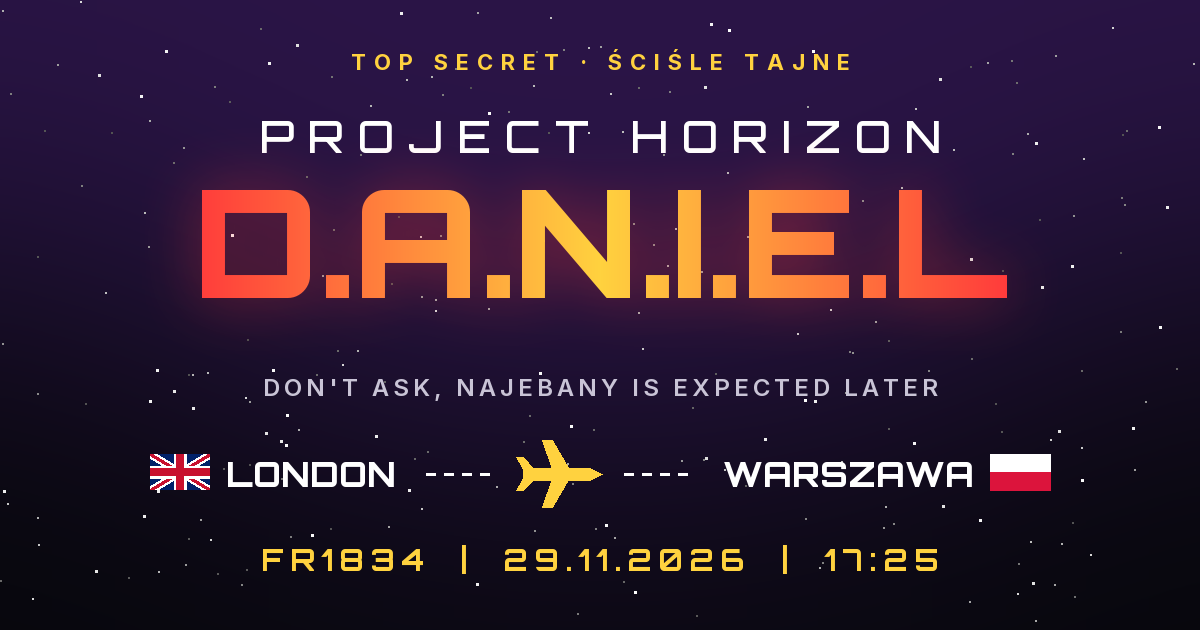
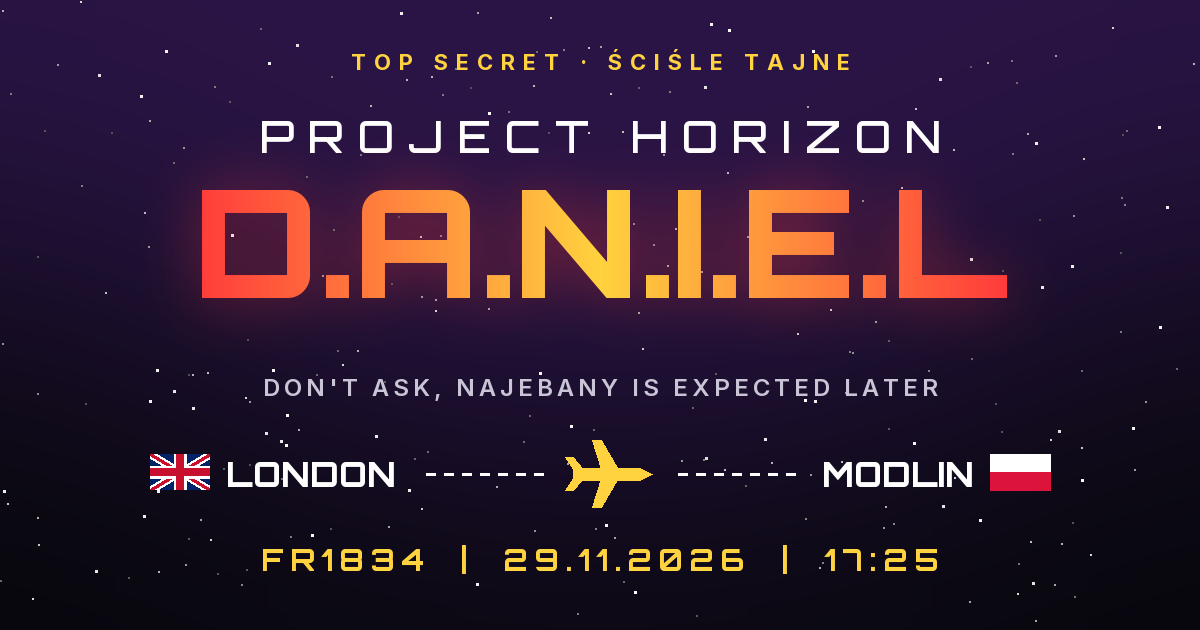
Warszawa → Modlin

Changed region(s): [[0.5858, 0.7238, 0.8017, 0.7841], [0.4317, 0.6937, 0.555, 0.8143]]

diff --git a/index.html b/index.html
@@ -6,7 +6,7 @@
 <title>PROJECT HORIZON: D.A.N.I.E.L</title>
 <meta property="og:title" content="PROJECT HORIZON: D.A.N.I.E.L">
 <meta property="og:url" content="https://project-daniel.pl">
-<meta property="og:description" content="FR1834 · London Stansted → Warszawa Modlin · 29.11.2026 17:25 · T-minus…">
+<meta property="og:description" content="FR1834 · London Stansted → Modlin · 29.11.2026 17:25 · T-minus…">
 <meta property="og:type" content="website">
 <meta property="og:image" content="https://project-daniel.pl/og.png">
 <meta property="og:image:width" content="1200">
@@ -92,7 +92,7 @@
 <h1 data-t="D.A.N.I.E.L">D.A.N.I.E.L</h1>
 <div class="acr"><b>D</b>on't <b>A</b>sk, <b>N</b>ajebany <b>I</b>s <b>E</b>xpected <b>L</b>ater</div>
 <div class="sub" id="sub">Polska, przygotuj się. Nadchodzi.</div>
-<div class="route"><span class="city"><svg class="flag" viewBox="0 0 60 30" aria-label="UK"><clipPath id="t"><path d="M30,15h30v15zv15h-30zh-30v-15zv-15h30z"/></clipPath><path d="M0,0v30h60v-30z" fill="#012169"/><path d="M0,0 60,30M60,0 0,30" stroke="#fff" stroke-width="6"/><path d="M0,0 60,30M60,0 0,30" clip-path="url(#t)" stroke="#C8102E" stroke-width="4"/><path d="M30,0v30M0,15h60" stroke="#fff" stroke-width="10"/><path d="M30,0v30M0,15h60" stroke="#C8102E" stroke-width="6"/></svg>LONDON</span><div class="line"><span class="plane" id="pl"><svg viewBox="-40 -30 80 60" width="1.6em" height="1.2em"><path fill="#ffd23f" d="M36,0 26,-5H-22L-30,-14H-36L-30,-4V4L-36,14H-30L-22,5H26ZM8,-4-6,-28H-14L-6,-4ZM8,4-6,28H-14L-6,4Z"/></svg></span></div><span class="city">WARSZAWA<svg class="flag" viewBox="0 0 16 10" aria-label="PL"><rect width="16" height="5" fill="#fff"/><rect y="5" width="16" height="5" fill="#DC143C"/></svg></span></div>
+<div class="route"><span class="city"><svg class="flag" viewBox="0 0 60 30" aria-label="UK"><clipPath id="t"><path d="M30,15h30v15zv15h-30zh-30v-15zv-15h30z"/></clipPath><path d="M0,0v30h60v-30z" fill="#012169"/><path d="M0,0 60,30M60,0 0,30" stroke="#fff" stroke-width="6"/><path d="M0,0 60,30M60,0 0,30" clip-path="url(#t)" stroke="#C8102E" stroke-width="4"/><path d="M30,0v30M0,15h60" stroke="#fff" stroke-width="10"/><path d="M30,0v30M0,15h60" stroke="#C8102E" stroke-width="6"/></svg>LONDON</span><div class="line"><span class="plane" id="pl"><svg viewBox="-40 -30 80 60" width="1.6em" height="1.2em"><path fill="#ffd23f" d="M36,0 26,-5H-22L-30,-14H-36L-30,-4V4L-36,14H-30L-22,5H26ZM8,-4-6,-28H-14L-6,-4ZM8,4-6,28H-14L-6,4Z"/></svg></span></div><span class="city">MODLIN<svg class="flag" viewBox="0 0 16 10" aria-label="PL"><rect width="16" height="5" fill="#fff"/><rect y="5" width="16" height="5" fill="#DC143C"/></svg></span></div>
 <div class="cd" id="cd">
   <div class="u"><div class="n" id="d">--</div><div class="l">dni</div></div>
   <div class="u"><div class="n" id="h">--</div><div class="l">hours</div></div>
